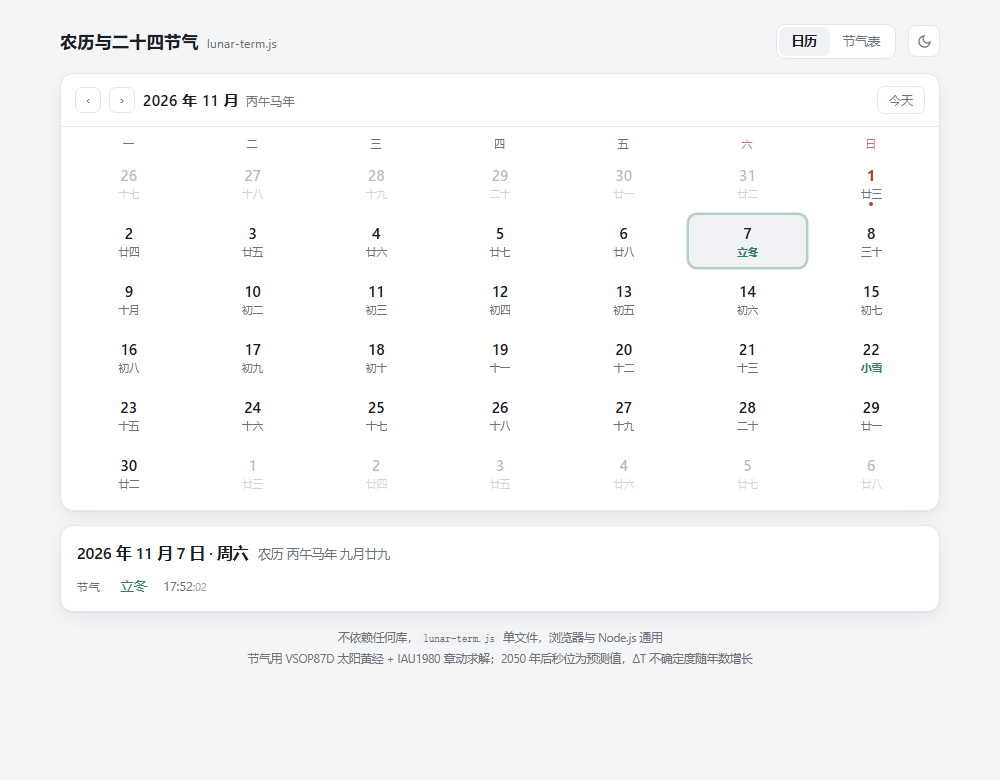
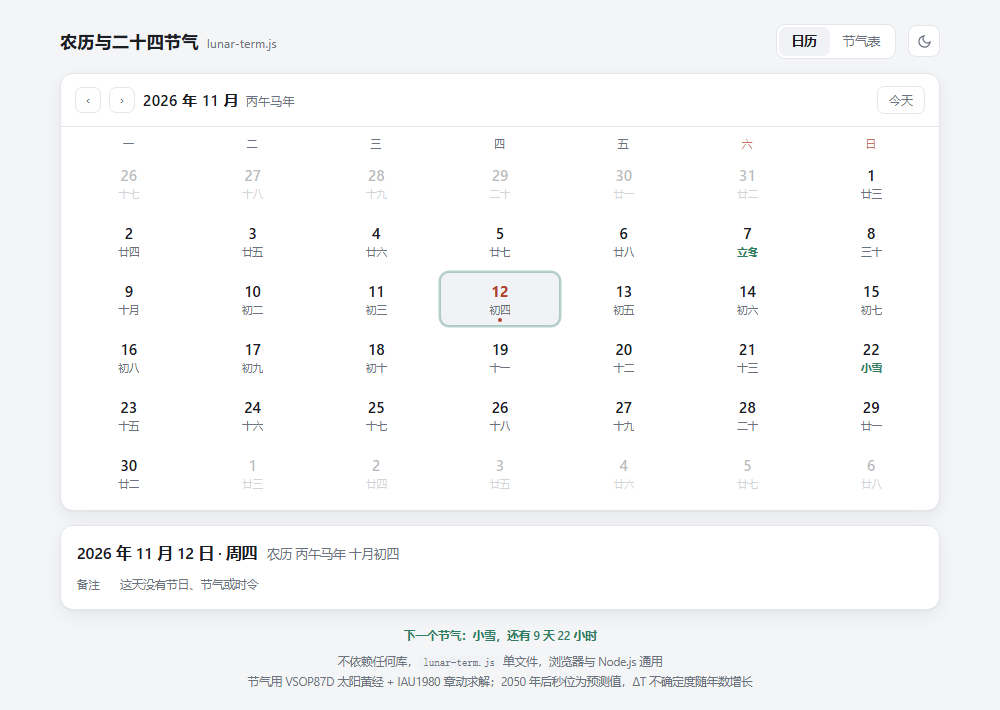
修两个越界缺陷，补齐自检与 ESM 校验（1.2.2）
修复
- solar2lunar 在 1900-01-01 ~ 01-30 返回非法对象 { y:1899, m:0, d:-29 }，
  lunarText 会输出「undefined月undefined」。这 30 天在年份范围内却早于表首日
  1900-01-31，属于「越界但不越年」，现在同样返回 null，与 README 的承诺一致。
- lunarFest(y,m,d,null) 抛 TypeError，与 lunarText 同类问题；现在返回空串，
  可以直接串在 solar2lunar 后面。

自检
- 第 12 段补 5 项：1900-01-01 / 01-30 返回 null、1900-01-31 仍是正月初一、
  1900–2100 逐日扫描（73,414 天）无非法月日、lunarFest(…,null) 返回空串。
  42 项 -> 47 项。

工程
- verify-types.mjs 增加 ESM 入口校验：lunar-term.mjs 的具名导出必须与 CJS 一致。
  用 .then 而非顶层 await，保持 Node 12 可跑。已实测「删掉 prevTerm 的 ESM 导出」
  能让它报错退出（退出码 1）。
- workflows 增加 examples 步骤：三个示例必须仍能跑通。
- package.json files 补 demo.html（README 让读者双击它，但发布时不带）。

文档
- README 的 nextTerm 示例改用固定时刻，数字改为可复现的 14 天 3 小时 23 分；
  原先的 10 天 16 小时是写作当时的快照，读者今天跑必然对不上。
- README 已知边界第 1 条写明下界是 1900-01-31 而非 01-01，并说明原因。
- lunarFest 的 null 行为写进 README 与 .d.ts。
- 首图 screenshot.png 换成当前界面（含「下一个节气」一行），旧图是 11-01 的。

diff --git a/selftest.js b/selftest.js
@@ -278,9 +278,40 @@ else bad('2101 未返回 null');
 if (L.solar2lunar(2126, 11, 7) === null) ok('2126 返回 null（节气仍可算，农历不可）');
 else bad('2126 未返回 null');
 
-// 返回 null 之后，调用方最常见的写法是把结果直接喂给 lunarText——不能崩
+// 「年份在范围内、日期却在表首日之前」这一段最容易被漏掉：
+// 1900-01-01 ~ 01-30 早于表首日 1900-01-31，硬算会得到 { y:1899, m:0, d:-29 } 这种非法值，
+// 再喂给 lunarText 就是「undefined月undefined」。必须同样返回 null。
+if (L.solar2lunar(1900, 1, 1) === null) ok('1900-01-01 返回 null（早于表首日，不返回 m=0/d<1 的非法值）');
+else bad('1900-01-01 应为 null，实得 ' + JSON.stringify(L.solar2lunar(1900, 1, 1)));
+if (L.solar2lunar(1900, 1, 30) === null) ok('1900-01-30 返回 null（表首日前一天）');
+else bad('1900-01-30 应为 null，实得 ' + JSON.stringify(L.solar2lunar(1900, 1, 30)));
+const firstDay = L.solar2lunar(1900, 1, 31);
+if (firstDay && firstDay.y === 1900 && firstDay.m === 1 && firstDay.d === 1) ok('1900-01-31 仍正常返回正月初一（表首日不受影响）');
+else bad('1900-01-31 应返回 1900 年正月初一，实得 ' + JSON.stringify(firstDay));
+
+// 全表逐日扫描：任何一天要么给出合法农历，要么给 null，不许出现 m/d 越界
+{
+  let illegal = 0, scanned = 0;
+  for (let yy = 1900; yy <= 2100; yy++) {
+    for (let mm = 1; mm <= 12; mm++) {
+      for (let dd = 1; dd <= 31; dd++) {
+        const probe = new Date(Date.UTC(yy, mm - 1, dd));
+        if (probe.getUTCMonth() !== mm - 1) continue;   // 跳过 2 月 30 日这类不存在的日期
+        scanned++;
+        const r = L.solar2lunar(yy, mm, dd);
+        if (r && (r.m < 1 || r.m > 12 || r.d < 1 || r.d > 30)) illegal++;
+      }
+    }
+  }
+  if (illegal === 0) ok('1900–2100 逐日扫描 ' + scanned + ' 天：无一天返回非法月日');
+  else bad('逐日扫描发现 ' + illegal + ' 天返回非法月日');
+}
+
+// 返回 null 之后，调用方最常见的写法是把结果直接喂给 lunarText / lunarFest——都不能崩
 if (L.lunarText(null) === '') ok('lunarText(null) 返回空串（不抛 TypeError）');
 else bad('lunarText(null) 应返回空串，实得 ' + JSON.stringify(L.lunarText(null)));
+if (L.lunarFest(2026, 11, 7, null) === '') ok('lunarFest(…, null) 返回空串（不抛 TypeError）');
+else bad('lunarFest(…, null) 应返回空串，实得 ' + JSON.stringify(L.lunarFest(2026, 11, 7, null)));
 
 // 节气不受农历表边界影响，2126 年必须照常算出
 if (at2126['11-7'] && at2126['11-7'].name === '立冬') ok('2126 立冬照常算出（节气走天文算法，不受农历表限制）');

diff --git a/lunar-term.js b/lunar-term.js
@@ -71,6 +71,10 @@ function solar2lunar(y,m,d){
   // 由调用处显示“数据范围外”。节气不受影响——节气走天文算法，可算到几千年后。
   if(y < 1900 || y > 2100) return null;
   let offset = Math.round((Date.UTC(y,m-1,d) - Date.UTC(1900,0,31)) / 86400000);
+  // 表首日是 1900-01-31（农历 1900 年正月初一）。1900-01-01 ~ 01-30 虽在年份范围内，
+  // 却落在表首日之前，硬算会得到 m=0、d 为负数的非法值（lunarText 会输出「undefined月undefined」）。
+  // 这种「越界但不越年」的情况必须同样返回 null，否则调用方拿到的是错值而不是空值。
+  if(offset < 0) return null;
   let temp = 0, i = 1900;
   while(i < 2101 && offset > 0){ temp = lYearDays(i); offset -= temp; i++; }
   if(offset < 0){ offset += temp; i--; }
@@ -90,7 +94,9 @@ function solar2lunar(y,m,d){
 function lunarText(l){ if(!l) return ''; return (l.leap?'闰':'') + CN_MON[l.m-1] + '月' + CN_DAY[l.d-1]; }
 function ganzhi(y){ return GAN[(y-4)%10] + ZHI[(y-4)%12]; }
 function shengxiao(y){ return SX[(y-4)%12]; }
+// 传 null / undefined 返回空串，理由同 lunarText：solar2lunar 越界给 null，串联时不该崩。
 function lunarFest(y,m,d,l){
+  if(!l) return '';
   if(!l.leap && LFEST[l.m+'-'+l.d]) return LFEST[l.m+'-'+l.d];
   if(!l.leap && l.m === 12){
     const nx = new Date(Date.UTC(y, m-1, d+1));

diff --git a/lunar-term.d.ts b/lunar-term.d.ts
@@ -71,7 +71,8 @@ export const CN_DAY: readonly string[];
 export const LFEST: Readonly<Record<string, string>>;
 
 /**
- * 公历转农历。只覆盖 1900–2100，越界返回 null（不抛错、不给错值）。
+ * 公历转农历。有效区间是 1900-01-31 – 2100-12-31（1900 年正月初一为表首日），
+ * 越界返回 null（不抛错、不给错值）——包括 1900-01-01 到 01-30 这 30 天。
  */
 export function solar2lunar(y: number, m: number, d: number): LunarDate | null;
 
@@ -83,8 +84,9 @@ export function lunarText(l: LunarDate | null | undefined): string;
 
 /**
  * 农历节日名，无则空串。含除夕（腊月只有 29 天时，廿九即除夕）。
+ * 传 null / undefined 返回空串，可以直接串在 solar2lunar 后面。
  */
-export function lunarFest(y: number, m: number, d: number, l: LunarDate): string;
+export function lunarFest(y: number, m: number, d: number, l: LunarDate | null | undefined): string;
 
 /** 年干支，如「丙午」 */
 export function ganzhi(y: number): string;

diff --git a/README.md b/README.md
@@ -48,7 +48,7 @@
 curl -O https://raw.githubusercontent.com/YuchengShuyue/lunar-term/main/lunar-term.js
 ```
 
-想先验一遍再信，clone 下来跑测试（42 项断言，应全部通过）：
+想先验一遍再信，clone 下来跑测试（47 项断言，应全部通过）：
 
 ```bash
 git clone https://github.com/YuchengShuyue/lunar-term.git
@@ -63,15 +63,18 @@ node selftest.js
 ```js
 const L = require('./lunar-term.js');
 
-const n = L.nextTerm();
+// 传一个固定时刻，下面的数字才是可复现的
+const n = L.nextTerm(new Date('2026-11-08T12:00:00+08:00'));
 n.name;      // '小雪'
 n.at;        // Date，2026-11-22T07:23:20.000Z（北京时间 15:23:20）
-n.days;      // 10     —— 还有 10 天
-n.hours;     // 16
+n.days;      // 14     —— 还有 14 天
+n.hours;     // 3
+n.minutes;   // 23
 n.certain;   // true   —— 2050 年之后为 false，秒变成 ΔT 预测值
 ```
 
-`nextTerm()` / `prevTerm()` 不传参就以此刻为起点，也可以传 `Date` 或毫秒时间戳。
+`nextTerm()` / `prevTerm()` 不传参就以此刻为起点（`n.days` 之类的数字会随运行时刻变化），
+也可以传 `Date` 或毫秒时间戳。
 **跨年由库内部处理**——12 月冬至之后的下一个节气是次年小寒，不用自己遍历 12 个月。
 
 ### 更多可运行的例子
@@ -143,7 +146,7 @@ termAt(2026)['11-7'].name;   // '立冬'
 | `termJDE(year, n)` | 同上但返回力学时儒略日（不含 ΔT 与时区） |
 | `solar2lunar(y, m, d)` | 公历转农历，返回 `{y,m,d,leap}`；**越界返回 `null`** |
 | `lunarText(l)` | `'九月廿九'` / `'闰六月初一'`；**传 `null` 返回 `''`**（可直接接 `solar2lunar` 的结果） |
-| `lunarFest(y, m, d, l)` | 农历节日名，无则空串（含除夕，跨年处理好了） |
+| `lunarFest(y, m, d, l)` | 农历节日名，无则空串（含除夕，跨年处理好了）；**传 `null` 返回 `''`** |
 | `ganzhi(y)` / `shengxiao(y)` | `'丙午'` / `'马'` |
 | `sanfuState(y, m, d)` | `'今日入伏'` / `'中伏第 1 天'` / 不在三伏内返回 `''` |
 | `jiuday(y, m, d)` | `'一九第 1 天'` / 不在数九内返回 `''` |
@@ -155,7 +158,9 @@ termAt(2026)['11-7'].name;   // '立冬'
 
 ## 已知边界（重要）
 
-**1. 农历只覆盖 1900–2100。** 越界时 `solar2lunar()` 返回 `null`，不会给出错误值。
+**1. 农历只覆盖 1900-01-31 – 2100-12-31。** 越界时 `solar2lunar()` 返回 `null`，不会给出错误值。
+注意下界是 **1 月 31 日**而不是 1 月 1 日——农历数据表以 1900 年正月初一（公历 1900-01-31）为基准日，
+再往前没有数据，所以 1900-01-01 到 01-30 同样返回 `null`。
 节气不受影响——它走天文算法，可以一直算下去。
 
 **2. 2050 年后的「秒」只是预测值。**
